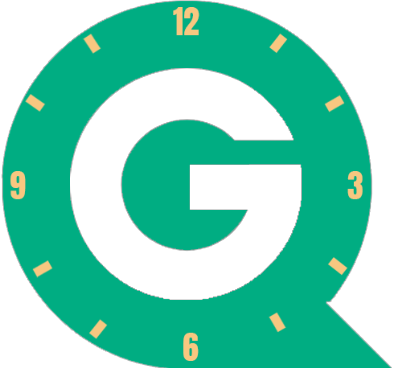
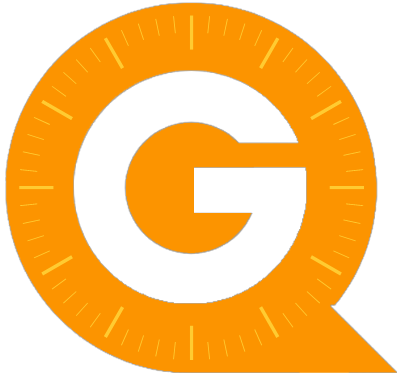
tagged unused components apply search ang pagination

diff --git a/src/components/QueueTable/CollapsibleTable.jsx b/src/components/QueueTable/CollapsibleTable.jsx
@@ -9,17 +9,36 @@ import queues from "./../../../fake/queues.json";
 import { CheckScreenSize } from "../../hooks/CheckScreenSize";
 import Row from "./Row";
 import { glassEffect } from "../../themes/MyTheme";
-import Searchbar from "./../Searchbar";
+import TablePagination from "@mui/material/TablePagination";
+import { useState } from "react";
 
-export default function CollapsibleTable({ admins }) {
+export default function CollapsibleTable({ admins, search }) {
     const { width } = CheckScreenSize();
-    const adminsWithQueue = admins.map((admin) => {
-        return { ...admin, queues: queues.filter((q) => q.adminId === admin.id) };
-    });
+
+    const adminsWithQueue = admins
+        .filter((admin) => admin.agency.toLowerCase().includes(search.toLowerCase()))
+        .map((admin) => {
+            return { ...admin, queues: queues.filter((q) => q.adminId === admin.id) };
+        });
+
+    const [page, setPage] = useState(0);
+
+    const [rowsPerPage, setRowsPerPage] = useState(5);
+
+    const handleChangePage = (event, newPage) => {
+        console.log(`handleChangePage: ${newPage}`);
+        setPage(newPage);
+    };
+
+    const handleChangeRowsPerPage = (event) => {
+        console.log(`handleChangeRowsPerPage: ${+event.target.value}`);
+        setRowsPerPage(+event.target.value);
+        setPage(0);
+    };
 
     return (
         <Paper sx={{ width: "100%", overflow: "hidden", my: 4, ...glassEffect }}>
-            <TableContainer sx={{ maxHeight: "550px", paddingX: width > 800 ? "120px" : "10px" }}>
+            <TableContainer sx={{ maxHeight: "550px", paddingX: width > 800 ? "100px" : "10px" }}>
                 <Table stickyHeader>
                     <TableHead>
                         <TableRow>
@@ -31,12 +50,21 @@ export default function CollapsibleTable({ admins }) {
                         </TableRow>
                     </TableHead>
                     <TableBody>
-                        {adminsWithQueue.map((admin) => (
+                        {adminsWithQueue.slice(page * rowsPerPage, page * rowsPerPage + rowsPerPage).map((admin) => (
                             <Row key={admin.id} admin={admin} width={width} />
                         ))}
                     </TableBody>
                 </Table>
             </TableContainer>
+            <TablePagination
+                rowsPerPageOptions={[5, 10, 20]}
+                component="div"
+                count={adminsWithQueue.length}
+                rowsPerPage={rowsPerPage}
+                page={page}
+                onPageChange={handleChangePage}
+                onRowsPerPageChange={handleChangeRowsPerPage}
+            />
         </Paper>
     );
 }

diff --git a/src/components/Navbar/Search.jsx b/src/components/Navbar/Search.jsx
@@ -1,8 +1,9 @@
 import { styled, alpha } from "@mui/material/styles";
 import InputBase from "@mui/material/InputBase";
 import SearchIcon from "@mui/icons-material/Search";
+import { gold } from "../../themes/MyTheme";
 
-const SearchWrapper = styled("div")(({ theme }) => ({
+const SearchContainer = styled("div")(({ theme }) => ({
     position: "relative",
     borderRadius: theme.shape.borderRadius,
     backgroundColor: alpha(theme.palette.common.white, 0.15),
@@ -11,7 +12,7 @@ const SearchWrapper = styled("div")(({ theme }) => ({
     },
     marginLeft: 0,
     width: "100%",
-    [theme.breakpoints.up("sm")]: {
+    [theme.breakpoints.up("xs")]: {
         marginLeft: theme.spacing(1),
         width: "auto",
     },
@@ -25,6 +26,7 @@ const SearchIconWrapper = styled("div")(({ theme }) => ({
     display: "flex",
     alignItems: "center",
     justifyContent: "center",
+    ...gold,
 }));
 
 const StyledInputBase = styled(InputBase)(({ theme }) => ({
@@ -35,7 +37,7 @@ const StyledInputBase = styled(InputBase)(({ theme }) => ({
         paddingLeft: `calc(1em + ${theme.spacing(4)})`,
         transition: theme.transitions.create("width"),
         width: "100%",
-        [theme.breakpoints.up("sm")]: {
+        [theme.breakpoints.up("xs")]: {
             width: "12ch",
             "&:focus": {
                 width: "20ch",
@@ -44,15 +46,22 @@ const StyledInputBase = styled(InputBase)(({ theme }) => ({
     },
 }));
 
-export default function Search() {
+export default function Search({ search, setSearch }) {
     return (
         <>
-            <SearchWrapper>
+            <SearchContainer>
                 <SearchIconWrapper>
                     <SearchIcon />
                 </SearchIconWrapper>
-                <StyledInputBase placeholder="Search…" inputProps={{ "aria-label": "search" }} />
-            </SearchWrapper>
+                <StyledInputBase
+                    placeholder="Search…"
+                    inputProps={{ "aria-label": "search" }}
+                    onChange={(e) => {
+                        setSearch(e.target.value);
+                    }}
+                    value={search}
+                />
+            </SearchContainer>
         </>
     );
 }

diff --git a/src/components/Windows/index.jsx b/src/components/Windows/index.jsx
@@ -1,0 +1,41 @@
+import Box from "@mui/material/Box";
+import Stack from "@mui/material/Stack";
+import Window from "./Window";
+import { CheckScreenSize } from "../../hooks/CheckScreenSize";
+
+export default function Windows({ queue }) {
+    const { width } = CheckScreenSize();
+    return (
+        <Box
+            sx={{
+                overflowX: "auto",
+                padding: "20px 15px",
+                marginY: "10px",
+                width: "100%",
+                boxShadow: 3,
+                borderRadius: "10px",
+            }}
+        >
+            <Stack
+                sx={{
+                    display: "flex",
+                    justifyContent: "space-around",
+                    flexDirection: width < 360 ? "column" : "row",
+                    gap: "20px",
+                    minWidth: "fit-content",
+                    alignItems: "center",
+                    flexWrap: width < 600 ? "wrap" : "no-wrap",
+                }}
+            >
+                {queue.map((q) => (
+                    <Window
+                        key={q.id}
+                        name={q.name}
+                        number={q.current}
+                        updated={new Date(q.updatedOn).toLocaleTimeString()}
+                    />
+                ))}
+            </Stack>
+        </Box>
+    );
+}

diff --git a/src/components/QueueTable/Row.jsx b/src/components/QueueTable/Row.jsx
@@ -2,13 +2,11 @@ import { useState } from "react";
 import Box from "@mui/material/Box";
 import Collapse from "@mui/material/Collapse";
 import IconButton from "@mui/material/IconButton";
-import Table from "@mui/material/Table";
 import TableCell from "@mui/material/TableCell";
-import TableHead from "@mui/material/TableHead";
 import TableRow from "@mui/material/TableRow";
 import KeyboardArrowDownIcon from "@mui/icons-material/KeyboardArrowDown";
 import KeyboardArrowUpIcon from "@mui/icons-material/KeyboardArrowUp";
-import WindowsLayout from "../QueueTabs/WindowsLayout";
+import Windows from "../Windows";
 
 export default function Row({ admin, width }) {
     const [open, setOpen] = useState(false);
@@ -40,7 +38,7 @@ export default function Row({ admin, width }) {
                 <TableCell style={{ paddingBottom: 0, paddingTop: 0 }} colSpan={5}>
                     <Collapse in={open} timeout="auto" unmountOnExit>
                         <Box sx={{ marginBottom: "20px" }}>
-                            <WindowsLayout queue={admin.queues} width={width} />
+                            <Windows queue={admin.queues} width={width} />
                         </Box>
                     </Collapse>
                 </TableCell>

diff --git a/src/components/Windows/Window.jsx b/src/components/Windows/Window.jsx
@@ -1,0 +1,37 @@
+import Box from "@mui/material/Box";
+import { light, gold, dark } from "../../themes/MyTheme";
+
+export default function Window({ name, number, updated }) {
+    return (
+        <Box sx={{ textAlign: "center" }}>
+            <Box component="span">{name}</Box>
+            <Box
+                component="div"
+                sx={{
+                    fontWeight: "bold",
+                    fontSize: "3rem",
+                    padding: "20px",
+                    margin: "5px",
+                    alignItems: "center",
+                    justifyContent: "center",
+                    border: "1px groove grey",
+                    position: "relative",
+                    ...light,
+                    borderRadius: "4px",
+                    transition: ".3s",
+                    minWidth: "100px",
+                    "&:hover": {
+                        ...dark,
+                        color: "azure",
+                        cursor: "pointer",
+                    },
+                }}
+            >
+                {number}
+            </Box>
+            <Box component="span" sx={{ fontSize: ".7rem" }}>
+                {updated}
+            </Box>
+        </Box>
+    );
+}

diff --git a/src/components/Navbar/index.jsx b/src/components/Navbar/index.jsx
@@ -1,23 +1,21 @@
 import AppBar from "@mui/material/AppBar";
 import Toolbar from "@mui/material/Toolbar";
-import FormatDateTime from "./DateTime";
 import NavLink from "./NavLink";
 import AppName from "./AppName";
 import HamburgerMenu from "./HamburgerMenu";
 import { dark } from "./../../themes/MyTheme";
-import { useState } from "react";
 import Search from "./Search";
+import { useState } from "react";
+import DateTime from "./DateTime";
 
-export default function NavBar() {
-    const [input, setInput] = useState("");
+export default function NavBar({ search, setSearch }) {
     return (
         <AppBar position="sticky" sx={{ paddingX: "20px", ...dark }}>
             <Toolbar disableGutters>
                 <HamburgerMenu />
                 <AppName />
                 <NavLink />
-                <Search />
-                {/* <FormatDateTime /> */}
+                {search == undefined ? <DateTime /> : <Search search={search} setSearch={setSearch} />}
             </Toolbar>
         </AppBar>
     );

diff --git a/src/components/Navbar/NavLink.jsx b/src/components/Navbar/NavLink.jsx
@@ -1,4 +1,3 @@
-import React, { useState } from "react";
 import { Link, useLocation } from "react-router-dom";
 import Box from "@mui/material/Box";
 import Button from "@mui/material/Button";
@@ -9,8 +8,6 @@ export default function NavLink() {
         { nav: "About us", link: "/about" },
         { nav: "Support", link: "/support" },
     ];
-
-    const [selectedTab, setSelectedTab] = useState("/");
 
     const location = useLocation();
 
@@ -28,10 +25,8 @@ export default function NavLink() {
                     to={page.link}
                     style={{
                         textDecoration: "none",
-
-                        boxShadow: location.pathname === page.link ? "0 0 0 -5px blue" : null,
+                        cursor: "default",
                     }}
-                    onClick={() => setSelectedTab(page.link)}
                 >
                     <Button
                         sx={{

diff --git a/src/components/Navbar/DateTime.jsx b/src/components/Navbar/DateTime.jsx
@@ -16,7 +16,7 @@ export default function FormatDateTime() {
     useEffect(() => {
         const interval = setInterval(() => {
             setCurrentDateTime(new Date());
-        }, 1000);
+        }, 10000);
 
         return () => {
             clearInterval(interval);
@@ -28,7 +28,9 @@ export default function FormatDateTime() {
 
     return (
         <Box sx={{ flexGrow: 0, display: "flex", alignItems: "center" }}>
-            <Typography variant="body1" sx={{ color: "white", marginRight: 2, display: { xs: "none", sm: "inline" } }}>
+            <Typography
+                sx={{ color: "white", marginRight: 2, fontSize: ".8rem", display: { xs: "none", sm: "inline" } }}
+            >
                 {formattedDateTime.trim()}
             </Typography>
         </Box>

diff --git a/src/pages/public/Dashboard.jsx b/src/pages/public/Dashboard.jsx
@@ -1,17 +1,17 @@
 import Carousel from "./../../components/Carousel";
 import NavBar from "./../../components/Navbar";
 import Box from "@mui/material/Box";
-import Searchbar from "./../../components/Searchbar";
 import QueueTable from "../../components/QueueTable";
+import { useState } from "react";
 
 export default function Dashboard() {
+    const [search, setSearch] = useState("");
     return (
         <>
-            <NavBar />
+            <NavBar search={search} setSearch={setSearch} />
             <Carousel />
-            {/* <Searchbar /> */}
-            <Box sx={{ px: "40px" }}>
-                <QueueTable />
+            <Box sx={{ px: "4%" }}>
+                <QueueTable search={search} />
             </Box>
         </>
     );

diff --git a/src/components/QueueTable/index.jsx b/src/components/QueueTable/index.jsx
@@ -1,10 +1,10 @@
 import CollapsibleTable from "./CollapsibleTable";
 import admins from "./../../../fake/admins.json";
 
-export default function QueueTable() {
+export default function QueueTable({ search }) {
     return (
         <>
-            <CollapsibleTable admins={admins} />
+            <CollapsibleTable admins={admins} search={search} />
         </>
     );
 }

diff --git a/index.html b/index.html
@@ -2,7 +2,7 @@
 <html lang="en">
     <head>
         <meta charset="UTF-8" />
-        <link rel="icon" href="/govQ2.png" />
+        <link rel="icon" href="/govQ.png" />
         <meta name="viewport" content="width=device-width, initial-scale=1.0" />
         <title>GovQueue</title>
     </head>

diff --git a/src/components/QueueTabs (unused)/Window.jsx b/src/components/QueueTabs (unused)/Window.jsx
@@ -1,5 +1,5 @@
 import Box from "@mui/material/Box";
-import { light, gold, dark } from "./../../themes/MyTheme";
+import { light, gold, dark } from "../../themes/MyTheme";
 
 export default function Window({ name, number, updated }) {
     return (
